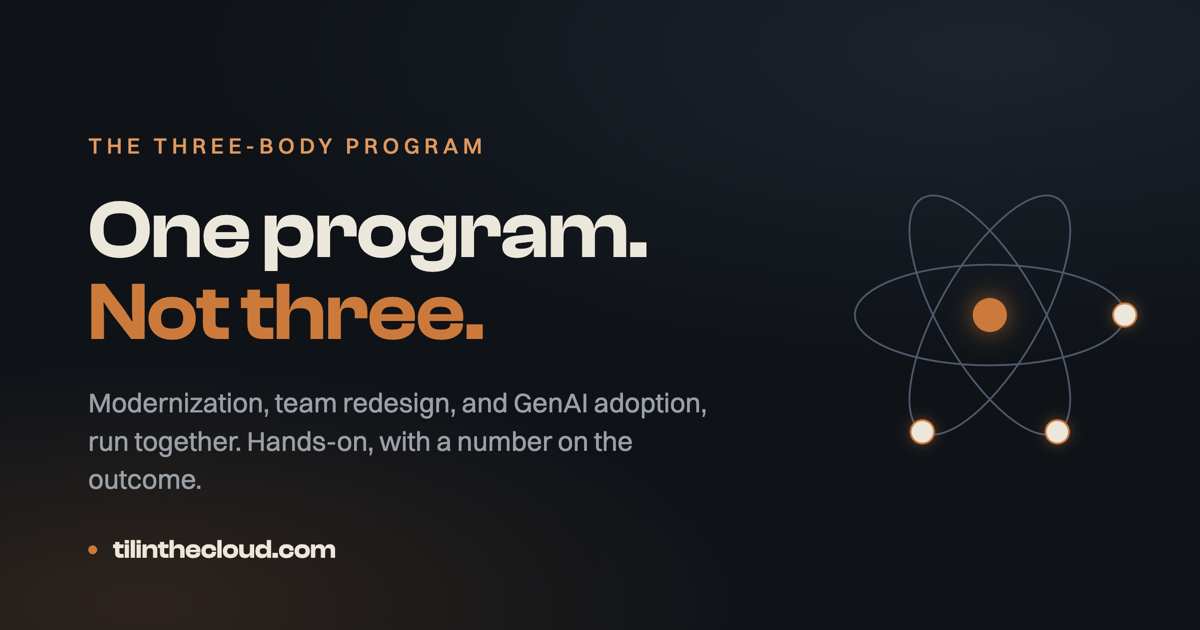
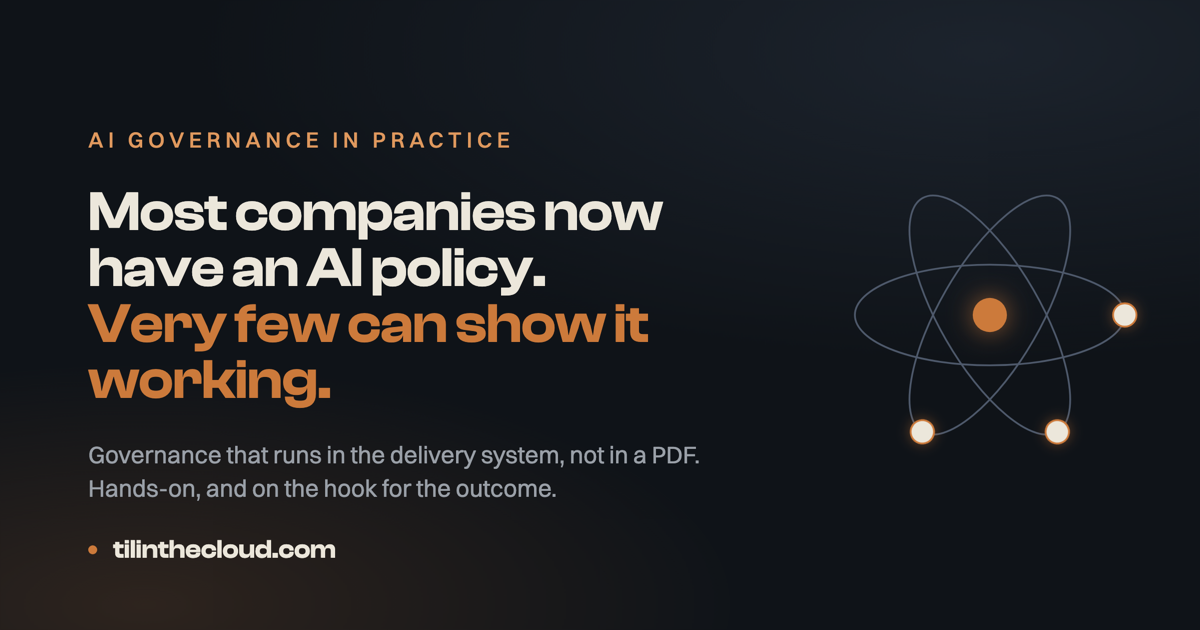
feat(brand): regenerate home and Lab share cards for the new lead

Changed region(s): [[0.0617, 0.3016, 0.5858, 0.6635], [0.0617, 0.6937, 0.5858, 0.8143], [0.0617, 0.2111, 0.4317, 0.2413]]

diff --git a/assets/brand/social/src/og.html b/assets/brand/social/src/og.html
@@ -13,9 +13,9 @@
   }
   .content{ padding:78px 0 78px 88px; }
   .eyebrow{ font-weight:500; font-size:22px; letter-spacing:.22em; text-transform:uppercase; color:var(--copper-lo); margin-bottom:30px; }
-  h1{ font-family:"Clash Display",serif; font-weight:600; font-size:82px; line-height:1.0; letter-spacing:-.01em; margin-bottom:30px; }
+  h1{ font-family:"Clash Display",serif; font-weight:600; font-size:56px; line-height:1.0; letter-spacing:-.01em; margin-bottom:30px; }
   h1 .cop{ color:var(--copper); }
-  p.sub{ font-size:27px; line-height:1.42; color:var(--bone-dim); max-width:640px; font-weight:400; }
+  p.sub{ font-size:24px; line-height:1.4; color:var(--bone-dim); max-width:680px; font-weight:400; }
   .foot{ position:absolute; left:88px; bottom:64px; display:flex; align-items:center; gap:16px;
          font-family:"Clash Display",serif; font-weight:600; font-size:26px; color:var(--bone); }
   .foot .dot{ width:9px; height:9px; border-radius:50%; background:var(--copper); }
@@ -25,9 +25,9 @@
 </style></head>
 <body>
   <div class="content">
-    <div class="eyebrow">The Three-Body Program</div>
-    <h1>One program.<br><span class="cop">Not three.</span></h1>
-    <p class="sub">Modernization, team redesign, and GenAI adoption, run together. Hands-on, with a number on the outcome.</p>
+    <div class="eyebrow">AI governance in practice</div>
+    <h1>Most companies now have an AI policy.<br><span class="cop">Very few can show it working.</span></h1>
+    <p class="sub">Governance that runs in the delivery system, not in a PDF. Hands-on, and on the hook for the outcome.</p>
   </div>
   <div class="foot"><span class="dot"></span>tilinthecloud.com</div>
   <div class="mark"><svg viewBox="0 0 400 400">

diff --git a/index.html b/index.html
@@ -19,7 +19,7 @@
   <meta property="og:image:type" content="image/png" />
   <meta property="og:image:width" content="1200" />
   <meta property="og:image:height" content="630" />
-  <meta property="og:image:alt" content="TilinTheCloud: one program, not three. Modernization, team redesign, and GenAI adoption, run together." />
+  <meta property="og:image:alt" content="TilinTheCloud: most companies now have an AI policy, very few can show it working. Governance that runs in the delivery system." />
 
   <!-- Twitter card -->
   <meta name="twitter:card" content="summary_large_image" />

diff --git a/assets/brand/social/src/og-delivery-lab.html b/assets/brand/social/src/og-delivery-lab.html
@@ -27,7 +27,7 @@
   <div class="content">
     <div class="eyebrow">The Three-Body Delivery Lab</div>
     <h1>Your developers write code faster.<br><span class="cop">Can the rest of your delivery system keep up?</span></h1>
-    <p class="sub">An AI-native SDLC accelerator. One real change, two or three focused days, a repeatable workflow.</p>
+    <p class="sub">One real flow, governed and evidenced.</p>
   </div>
   <div class="foot"><span class="dot"></span>tilinthecloud.com</div>
   <div class="mark"><svg viewBox="0 0 400 400">

diff --git a/docs/decisions/0021-lead-positioning-ai-governance-in-practice.md b/docs/decisions/0021-lead-positioning-ai-governance-in-practice.md
@@ -48,5 +48,5 @@ names file already lists only that one.
   mirror stops contradicting the vault on confidentiality.
 - **Cost / risk:** "governance" can read as compliance consulting; the copy says engineering-side
   explicitly. The Lab has not run yet, so no outcome numbers go on the page (ADR 0008 still holds).
-- **Follow-ups:** the OG cover image (`assets/brand/social/og-cover.png`) still carries the "one
-  program, not three" line; regenerate it under ADR 0014 when the new card is designed.
+- **Follow-ups:** the home and Lab share cards are regenerated in the same change (ADR 0014). The
+  LinkedIn and Substack assets keep their current copy; revisit them with the LinkedIn headline change.
